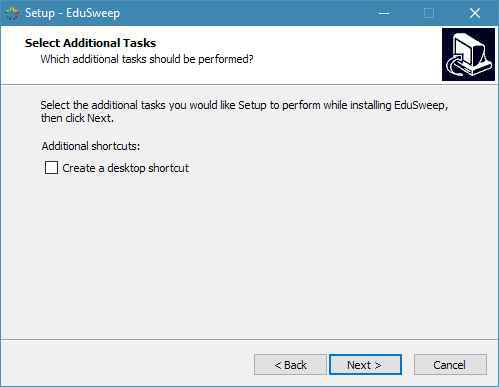
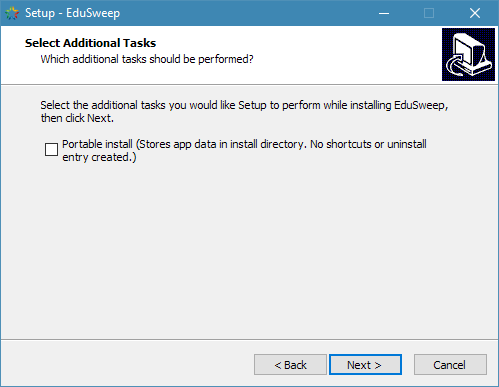
installer: Update portable mode description

Changed region(s): [[0.0902, 0.3411, 0.8717, 0.4651]]

diff --git a/docs/source/install/install.rst b/docs/source/install/install.rst
@@ -60,6 +60,9 @@ Portable mode will install to the specified folder but without registering the a
 with Windows. Application data will be stored within the install folder instead of in the
 users' roaming profile.
 
+Note that the portable mode option also overrides the Start Menu option from the previous
+page. If portable mode is enabled then no shortcuts will be created in the Start Menu.
+
 Review Installation Options
 ---------------------------
 .. image:: ../../screenshots/installer/6.png
